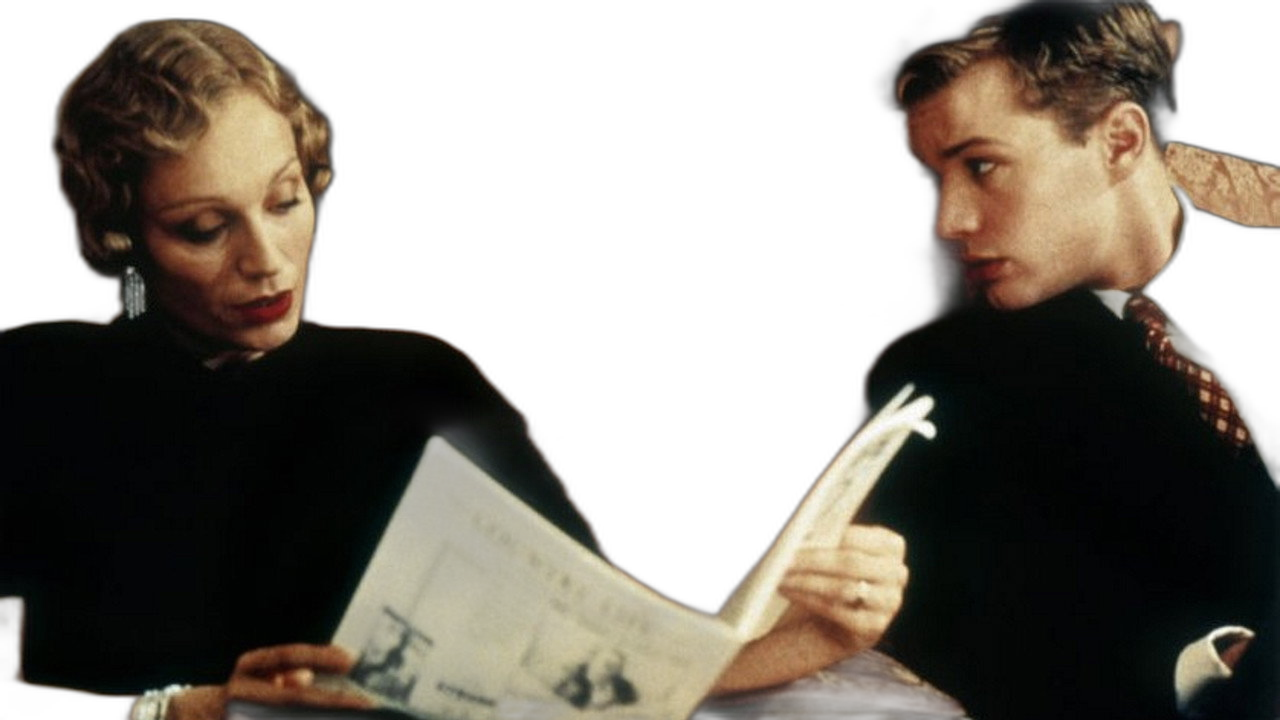
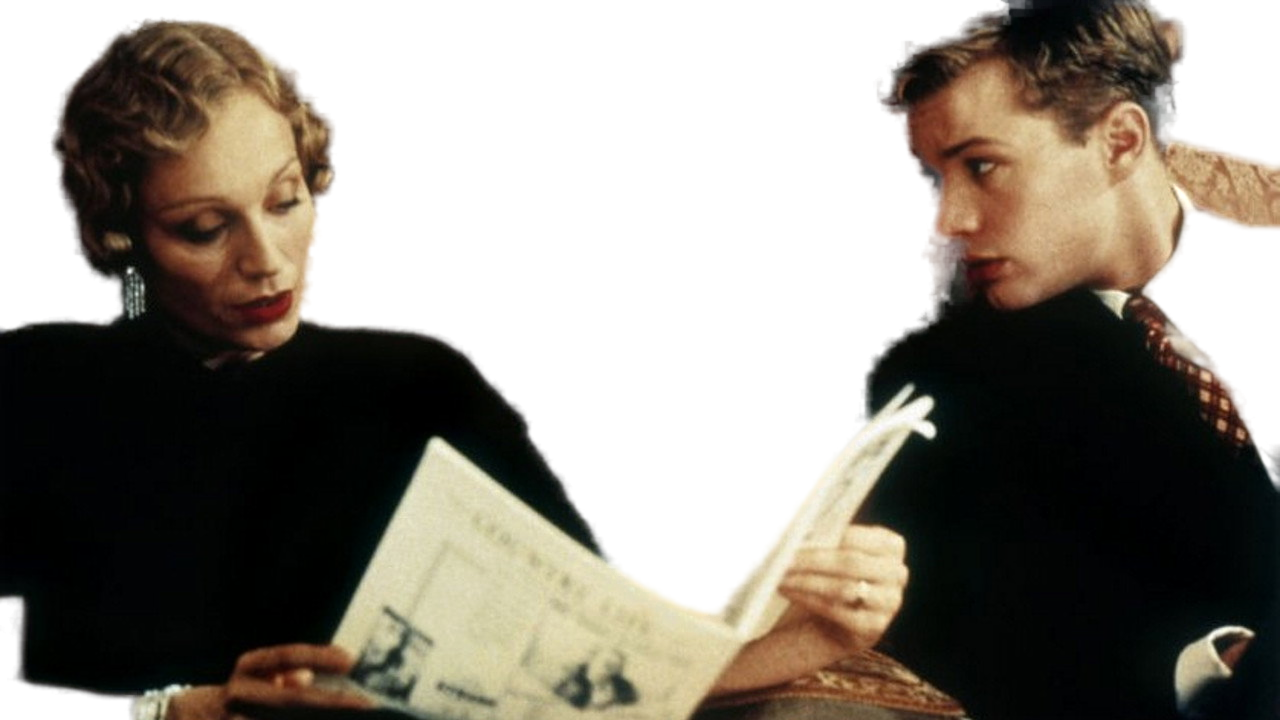
Battaniye gönderisi: temiz kesim (alpha matting) ve daire içinde kırpılmış figürler
Claude-Session: https://claude.ai/code/session_013RjhQCyUYfSSutarfaCBa7

diff --git a/tools/week2/p09.py b/tools/week2/p09.py
@@ -3,7 +3,7 @@ import cut
 
 ID = "2026-11-04_liste_battaniye-filmleri"
 CRM, INK = "#f4ede2", "#2a2420"
-MUS, SAGE, ROSE, SKY = "#f2b84b", "#9dbfa5", "#e9a7a0", "#9fc3e6"
+MUS, SAGE, ROSE, SKY = "#f2c24f", "#a8c4ab", "#f0a9a0", "#a9c8e8"
 TH = theme(CRM, INK, MUS, on_acc=INK, head="anton", acc_logo="black")
 
 CAPTION = """Dışarısı Kasım, içerisi sinema. Battaniyeye sarılıp çayı demleyince açılacak 4 film: gürültü yok, yıkım yok, sadece sıcacık hikâyeler.
@@ -17,32 +17,32 @@ Yarın 18:00'de: Tek odada geçen ama nefesini kesen 5 film."""
 
 
 FILMS = [
-    ("ABOUT TIME", "2013 · Richard Curtis", "Ailesindeki erkeklerin zamanda geriye gidebildiğini öğrenen genç bir adam, bu gücü aşk için kullanır. Domhnall Gleeson ve Rachel McAdams oynuyor.", "abouttime_1", MUS, "Zamanı geri sarmak isteyenler için"),
-    ("PADDINGTON 2", "2017 · Paul King", "Peru'dan gelen ayı Paddington, bir hırsızlık suçlamasıyla hapse düşer. Hugh Grant'in canlandırdığı kötü adam filme ayrı bir keyif katar.", "paddington2_2", SKY, "İyiliğe inanmak için"),
+    ("ABOUT TIME", "2013 · Richard Curtis", "Ailesindeki erkeklerin zamanda geriye gidebildiğini öğrenen genç bir adam, bu gücü aşk için kullanır. Domhnall Gleeson ve Rachel McAdams oynuyor.", "abouttime_2", SKY, "Zamanı geri sarmak isteyenler için"),
+    ("PADDINGTON 2", "2017 · Paul King", "Peru'dan gelen ayı Paddington, bir hırsızlık suçlamasıyla hapse düşer. Hugh Grant'in canlandırdığı kötü adam filme ayrı bir keyif katar.", "paddington2_2", MUS, "İyiliğe inanmak için"),
     ("CHEF", "2014 · Jon Favreau", "İşinden ayrılan şef, bir yemek kamyonuyla ülkeyi dolaşarak yemek yapma sevgisini yeniden bulur.", "chef_3", ROSE, "Karnı acıkanlar için"),
-    ("LITTLE WOMEN", "2019 · Greta Gerwig", "March kardeşlerin büyüme hikâyesi. Saoirse Ronan, Florence Pugh, Emma Watson ve Eliza Scanlen oynuyor; Oscar'ı En İyi Kostüm Tasarımı dalında aldı.", "littlewomen_1", SAGE, "Battaniyeye kıvrılanlar için"),
+    ("LITTLE WOMEN", "2019 · Greta Gerwig", "March kardeşlerin büyüme hikâyesi. Saoirse Ronan, Florence Pugh, Emma Watson ve Eliza Scanlen oynuyor; Oscar'ı En İyi Kostüm Tasarımı dalında aldı.", "littlewomen_2", SAGE, "Battaniyeye kıvrılanlar için"),
 ]
 
 
-def figure_el(name, cx, bottom, max_w, max_h, z=6):
-    p, w, h = cut.figure(name, max_w, max_h, contrast=1.04, sat=1.05)
-    return img(p, cx - w // 2, bottom - h, w, h, z=z, fit="contain"), h
+def circ_figure(name, cx, cy, D, col, over=60, z_circle=2, z_fig=6, wide=1.1):
+    p, fx, fy, w, h = cut.figure_in_circle(name, cx, cy, D, over=over, wide=wide)
+    return [box(cx - D // 2, cy - D // 2, D, D, col, z=z_circle, radius=D),
+            img(p, fx, fy, w, h, z=z_fig, fit="contain")], fy
 
 
 def mood_film(i, n):
     title, meta, body, src, col, mood = FILMS[i]
-    fe, fh = figure_el(src, 540, 930, 700, 600)
-    ty = max(250, 930 - fh - 160)
+    D, cy = 660, 730
+    els, fy = circ_figure(src, 540, cy, D, col, over=70)
+    ty = 170
     return {"bg": CRM, "els": [
         T(f"{i+1:02d}", M, 64, 200, 56, 40, "anton", INK, fit=False, lh=1.0, nowrap=True),
         T("KASIM AKŞAMI MODU", W - M - 520, 78, 520, 34, 22, "oswald", INK, fit=False, weight=500, ls=6, align="right", nowrap=True, op=0.6),
-        box(140, 150, 800, 800, col, z=2, radius=900),
-        T(mood.upper(), M, ty - 70, W - 2 * M, 34, 24, "oswald", INK, weight=500, ls=6, nowrap=True, mn=14, align="center", z=4, op=0.75),
-        T(title, M, ty, W - 2 * M, 230, 200, "anton", INK, nowrap=True, mn=70, lh=1.0, align="center", z=4),
-        fe,
-        box(0, 900, W, 450, CRM, z=7),
-        T(meta, M, 940, W - 2 * M, 30, 24, "oswald", INK, weight=500, ls=5, upper=True, nowrap=True, mn=16, align="center", op=0.6, z=8),
-        T(body, 110, 992, W - 220, 200, 36, "inter", INK, weight=500, lh=1.42, mn=26, align="center", z=8),
+        T(mood.upper(), M, 120, W - 2 * M, 34, 24, "oswald", INK, weight=500, ls=6, nowrap=True, mn=14, align="center", z=4, op=0.75),
+        T(title, M, ty, W - 2 * M, 230, 190, "anton", INK, nowrap=True, mn=70, lh=1.0, align="center", z=4),
+        *els,
+        T(meta, M, 1088, W - 2 * M, 30, 24, "oswald", INK, weight=500, ls=5, upper=True, nowrap=True, mn=16, align="center", op=0.6, z=8),
+        T(body, 110, 1128, W - 220, 130, 32, "inter", INK, weight=500, lh=1.4, mn=24, align="center", z=8),
         T(f"{i+1:02d} / 06", M, 1268, 260, 34, 24, "oswald", INK, fit=False, weight=500, ls=4, op=0.6, z=8),
         logo("black", W - M - 58, 1252, 58, z=9),
     ]}
@@ -54,15 +54,15 @@ def build():
         *kicker(TH, "4 film · battaniye · çay", M, 66, color=INK, w=900),
         T("DIŞARISI KASIM,<br>İÇERİSİ SİNEMA", M, 130, W - 2 * M, 330, 140, "anton", INK, nowrap=True, mn=60, lh=1.1),
     ]
-    for k, f in enumerate(FILMS):
-        x = 72 + k * 229
-        els.append(box(x, 580, 260, 260, f[4], z=2, radius=400))
-        fe, _h = figure_el(f[3] if f[3] != "littlewomen_1" else "littlewomen_2", x + 130, 850, 290, 520, z=4)
-        els.append(fe)
+    cover_names = ["abouttime_3", "paddington2_2", "chef_3", "littlewomen_1"]
+    D = 320
+    for k, (f, nm) in enumerate(zip(FILMS, cover_names)):
+        cx = 300 + (k % 2) * 480
+        cy = 680 + (k // 2) * 360
+        e, _fy = circ_figure(nm, cx, cy, D, f[4], over=34, wide=1.08)
+        els += e
     els += [
-        box(0, 840, W, 510, CRM, z=5),
-        T("Battaniyeye sarıl, çayı demle, birini aç.", M, 940, W - 2 * M, 50, 38, "inter", INK, weight=500, nowrap=True, mn=22, z=6),
-        T("ABOUT TIME · PADDINGTON 2 · CHEF · LITTLE WOMEN", M, 1010, W - 2 * M, 32, 22, "oswald", INK, weight=500, ls=4, nowrap=True, mn=12, z=6, op=0.6),
+        T("Battaniyeye sarıl, çayı demle, birini aç.", M, 1252, W - 2 * M - 100, 40, 28, "inter", INK, weight=500, nowrap=True, mn=18, z=6),
         logo("black", W - M - 58, 1252, 58, z=9),
     ]
     cover = {"bg": CRM, "els": els}

diff --git a/tools/week2/cut.py b/tools/week2/cut.py
@@ -19,7 +19,11 @@ def cutout(name):
         from rembg import remove, new_session
         _sess = _sess or new_session("u2net")
         src = Image.open(os.path.join(REPO, "assets", "stills", f"w_{name}.jpg")).convert("RGB")
-        remove(src, session=_sess).save(p)
+        out = remove(src, session=_sess, alpha_matting=True, alpha_matting_foreground_threshold=240,
+                     alpha_matting_background_threshold=10, alpha_matting_erode_size=8)
+        a = out.split()[3].filter(ImageFilter.MinFilter(3)).filter(ImageFilter.GaussianBlur(0.8))
+        out.putalpha(a)
+        out.save(p)
     return Image.open(p).convert("RGBA")
 
 
@@ -84,3 +88,28 @@ def pop_frame(name, fw, fh, ext=0.14, warm=0.18, center=None):
     frame.save(fp, quality=94)
     pop.save(pp)
     return {"frame": fp, "pop": pp, "pop_dy": int((top - y0) * s), "pop_h": pop.height}
+
+
+def figure_in_circle(name, cx, cy, D, over=60, wide=1.1, contrast=1.05, sat=1.06):
+    """Figür dairenin içinde durur: alt yarısı daire kenarıyla kırpılır, üst kısmı daireden taşar.
+    Döner: (png yolu, x, y, w, h) — daireyi ayrıca çiz (merkez cx,cy, çap D)."""
+    from PIL import ImageDraw
+    im = cutout(name)
+    x0, y0, x1, y1 = _bbox(im)
+    im = im.crop((x0, y0, x1, y1))
+    s = min((D + over) / im.height, D * wide / im.width)
+    w, h = int(im.width * s), int(im.height * s)
+    im = im.resize((w, h), Image.LANCZOS).filter(ImageFilter.UnsharpMask(1.2, 80, 2))
+    im = _tone(im, False, contrast, sat)
+    R = D / 2
+    fx, fy = int(cx - w / 2), int(cy + R - h)
+    allow = Image.new("L", (w, h), 0)
+    d = ImageDraw.Draw(allow)
+    d.rectangle((0, 0, w, max(0, int(cy - fy))), fill=255)          # daire merkezinin üstü serbest
+    d.ellipse((cx - R - fx, cy - R - fy, cx + R - fx, cy + R - fy), fill=255)
+    allow = allow.filter(ImageFilter.GaussianBlur(0.6))
+    im.putalpha(ImageChops.multiply(im.split()[3], allow))
+    key = hashlib.md5(repr((name, cx, cy, D, over, wide)).encode()).hexdigest()[:10]
+    p = os.path.join(OUT, f"cir_{name}_{key}.png")
+    im.save(p)
+    return p, fx, fy, w, h
